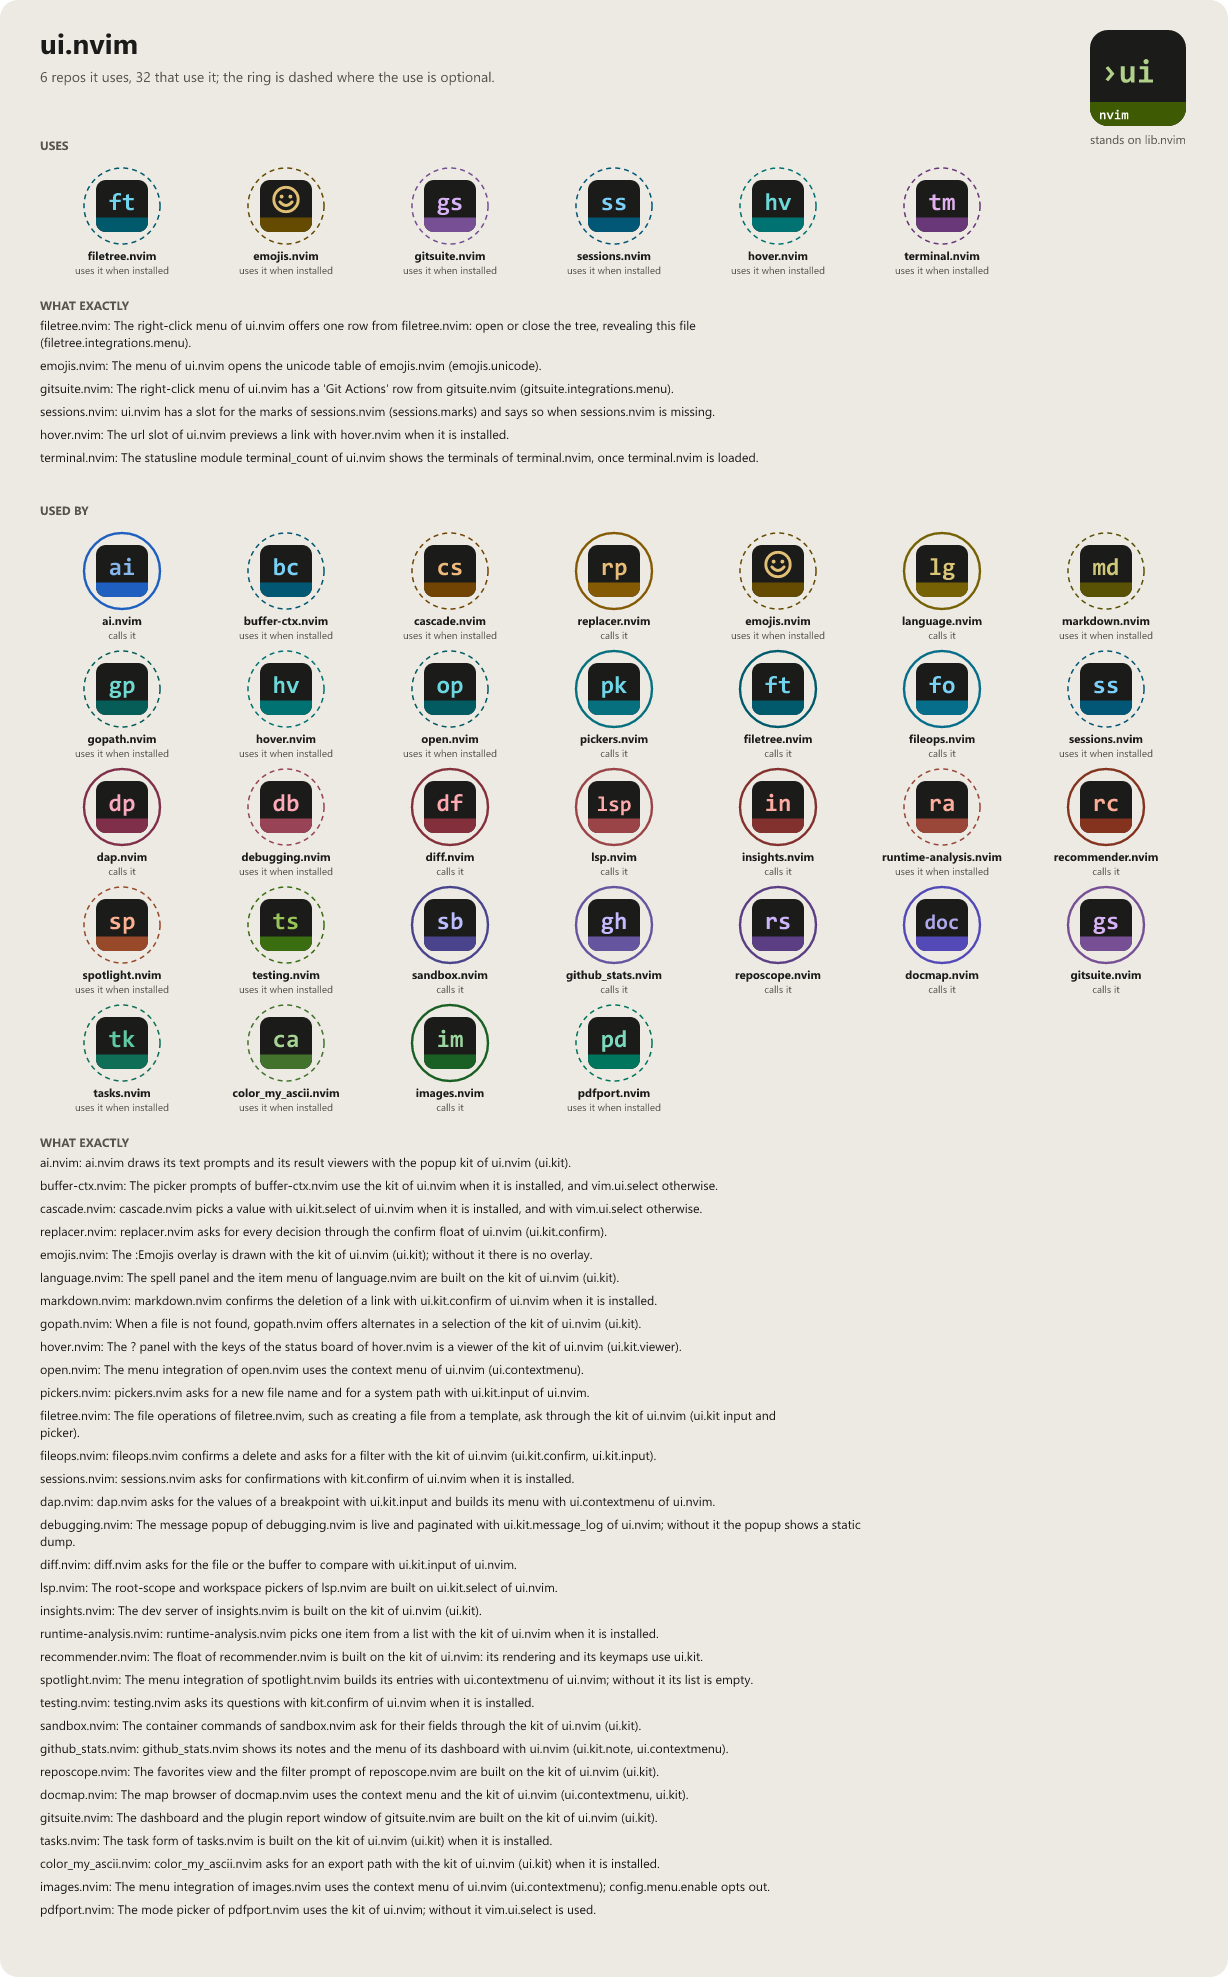
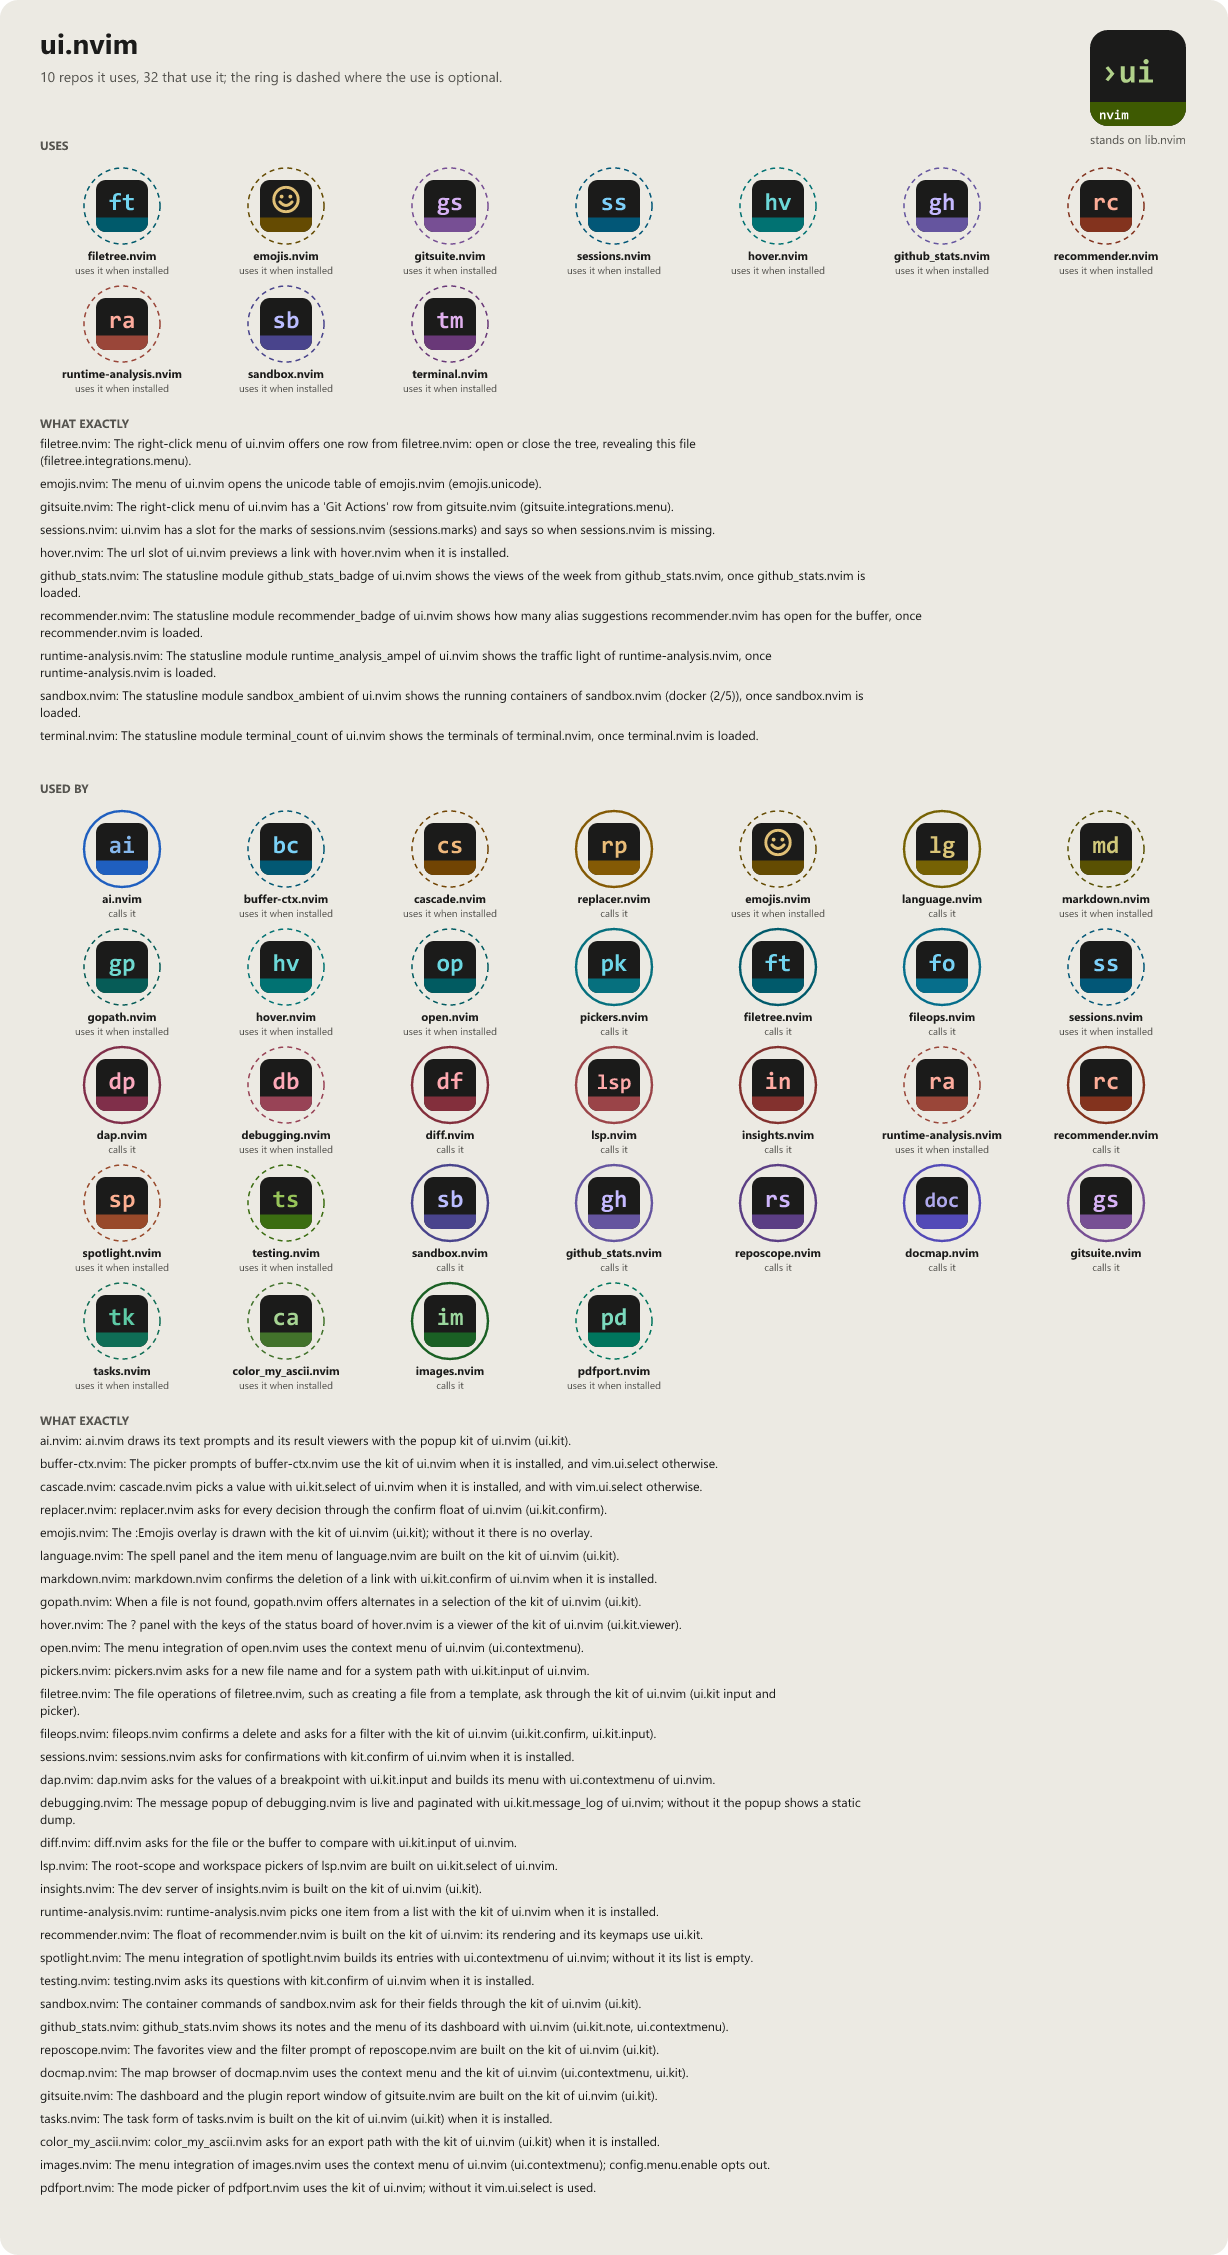
docs: regenerate the connection pictures (optional loads through probe/safe/package.loaded)
The graph scan of tasks-vault (TOOLS/scripts/app-icons, 821f99b) now reads the soft loaders like wkd does, so new optional edges and their sentences appear here.

diff --git a/README.md b/README.md
@@ -172,8 +172,12 @@ ui.nvim is released under the [MIT License](https://opensource.org/licenses/MIT)
 
 - [emojis.nvim](https://github.com/WKDSteve/emojis.nvim): The menu of ui.nvim opens the unicode table of emojis.nvim (`emojis.unicode`). ([picture](assets/graphs/pair/ui.nvim--emojis.nvim.png))
 - [filetree.nvim](https://github.com/WKDSteve/filetree.nvim): The right-click menu of ui.nvim offers one row from filetree.nvim: open or close the tree, revealing this file (`filetree.integrations.menu`). ([picture](assets/graphs/pair/ui.nvim--filetree.nvim.png))
+- [github_stats.nvim](https://github.com/WKDSteve/github_stats.nvim): The statusline module `github_stats_badge` of ui.nvim shows the views of the week from github_stats.nvim, once github_stats.nvim is loaded. ([picture](assets/graphs/pair/ui.nvim--github_stats.nvim.png))
 - [gitsuite.nvim](https://github.com/WKDSteve/gitsuite.nvim): The right-click menu of ui.nvim has a 'Git Actions' row from gitsuite.nvim (`gitsuite.integrations.menu`). ([picture](assets/graphs/pair/ui.nvim--gitsuite.nvim.png))
 - [hover.nvim](https://github.com/WKDSteve/hover.nvim): The url slot of ui.nvim previews a link with hover.nvim when it is installed. ([picture](assets/graphs/pair/ui.nvim--hover.nvim.png))
+- [recommender.nvim](https://github.com/WKDSteve/recommender.nvim): The statusline module `recommender_badge` of ui.nvim shows how many alias suggestions recommender.nvim has open for the buffer, once recommender.nvim is loaded. ([picture](assets/graphs/pair/ui.nvim--recommender.nvim.png))
+- [runtime-analysis.nvim](https://github.com/WKDSteve/runtime-analysis.nvim): The statusline module `runtime_analysis_ampel` of ui.nvim shows the traffic light of runtime-analysis.nvim, once runtime-analysis.nvim is loaded. ([picture](assets/graphs/pair/ui.nvim--runtime-analysis.nvim.png))
+- [sandbox.nvim](https://github.com/WKDSteve/sandbox.nvim): The statusline module `sandbox_ambient` of ui.nvim shows the running containers of sandbox.nvim (`docker (2/5)`), once sandbox.nvim is loaded. ([picture](assets/graphs/pair/ui.nvim--sandbox.nvim.png))
 - [sessions.nvim](https://github.com/WKDSteve/sessions.nvim): ui.nvim has a slot for the marks of sessions.nvim (`sessions.marks`) and says so when sessions.nvim is missing. ([picture](assets/graphs/pair/ui.nvim--sessions.nvim.png))
 - [terminal.nvim](https://github.com/WKDSteve/terminal.nvim): The statusline module `terminal_count` of ui.nvim shows the terminals of terminal.nvim, once terminal.nvim is loaded. ([picture](assets/graphs/pair/ui.nvim--terminal.nvim.png))
 - [lib.nvim](https://github.com/WKDSteve/lib.nvim): the shared base of the plugins.
